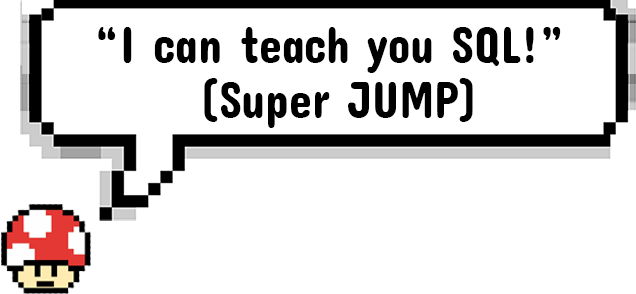
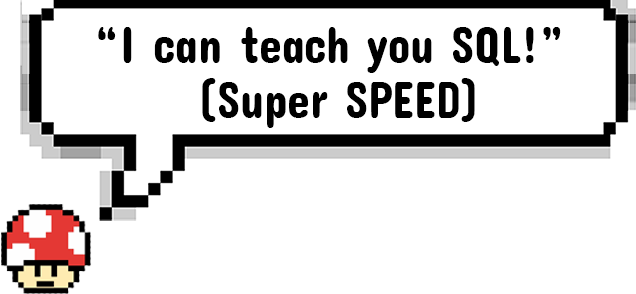
moved around mushys

Changed region(s): [[0.2987, 0.2449, 0.7469, 0.4286]]

diff --git a/index.js b/index.js
@@ -537,7 +537,7 @@ buildingFreelance = [ new BuildingFreelance(17800, canvas.height - Freelance.hei
 buildingCBRE = [ new BuildingCBRE(21000 , canvas.height - CBRE.height - platformHeight, 250, 422, CBRE)] // CBRE (x,y,w,h,image,)
 buildingPRIME = [ new BuildingPRIME(25000, canvas.height - PRIME.height - platformHeight, 500, 500, PRIME)] // HGA (x,y,w,h,image,)
 elementsPRIME = [ new ElementsPRIME(25000, canvas.height - PrimeElements.height - platformHeight, 500, 500, PrimeElements)] // HGA (x,y,w,h,image,)
-buildingHGA = [ new BuildingHGA(30000, canvas.height - HGA.height - (platformHeight -15), HGA)] // PRIME (x,y,w,h,image,)
+buildingHGA = [ new BuildingHGA(35000, canvas.height - HGA.height - (platformHeight -15), HGA)] // PRIME (x,y,w,h,image,)
 
 // -------------------------- ARROWS & SIGNS --------------------------
 arrowArray = [ new ARROW(800, canvas.height - ArrowPic.height - 50, 250, 422, ArrowPic),
@@ -552,18 +552,18 @@ arrowArray = [ new ARROW(800, canvas.height - ArrowPic.height - 50, 250, 422, Ar
             new Sign({x: 17200, y: canvas.height - (platformHeight * 4)- signVFXPic.height, image: signVFXPic}),
             new Sign({x: 20400, y: canvas.height - signCBREPic.height - 125, image: signCBREPic}),
             new Sign({x: 24500, y: canvas.height - signPrimePic.height - 125, image: signPrimePic}),
-            new Sign({x: 29500, y: canvas.height - SignHGAPic.height - 100, image: SignHGAPic}),
+            new Sign({x: 34500, y: canvas.height - SignHGAPic.height - 100, image: SignHGAPic}),
 ] 
 
 // -------------------------- POWER UPS --------------------------
 powerUps1 = [
-    new powerUp({x: 26500, y: canvas.height - PowerUp1.height - 125, image: PowerUp1}),
+    new powerUp({x: 26200, y: canvas.height - PowerUp1.height - 125, image: PowerUp1}),
 ]
 powerUps2 = [
-    new powerUp({x: 28000, y: canvas.height - PowerUp2.height - 125, image: PowerUp2}),
+    new powerUp({x: 30000, y: canvas.height - PowerUp2.height - 125, image: PowerUp2}),
 ]
 powerUps3 = [
-    new powerUp({x: 31000, y: canvas.height - PowerUp3.height - 125, image: PowerUp3}),
+    new powerUp({x: 36250, y: canvas.height - PowerUp3.height - 125, image: PowerUp3}),
 ]
 // 26500, 27000, 29500
 // -------------------------- WIN BARS--------------------------
@@ -1269,22 +1269,23 @@ function animate() {
                 RestaurantModal = true
                 modalRestaurantOn()
                 // console.log('Freelance Modal On');
-            } else if (glowPowerUp1) {  // SIZE
+            } else if (glowPowerUp1) {  // JUMP
                 powerUp1 = true
                 glowPlayer = true
-                playerSize = 4
+                jump = 55
                 console.log('powerUp1');
-            } else if (glowPowerUp2){   // JUMP
+            } else if (glowPowerUp2){   // SPEED
                 powerUp2 = true
                 glowPlayer = true
-                jump = 55
+                playerMovement = 40
                 // gravity = 2
                 console.log(gravity);
                 console.log('powerUp2');
-            } else if (glowPowerUp3){   // SPEED    
+            } else if (glowPowerUp3){   // SIZE
                 powerUp3 = true
                 glowPlayer = true
-                playerMovement = 40
+                playerSize = 4
+                player = new Player()
                 console.log('powerUp3');
             }
         }
